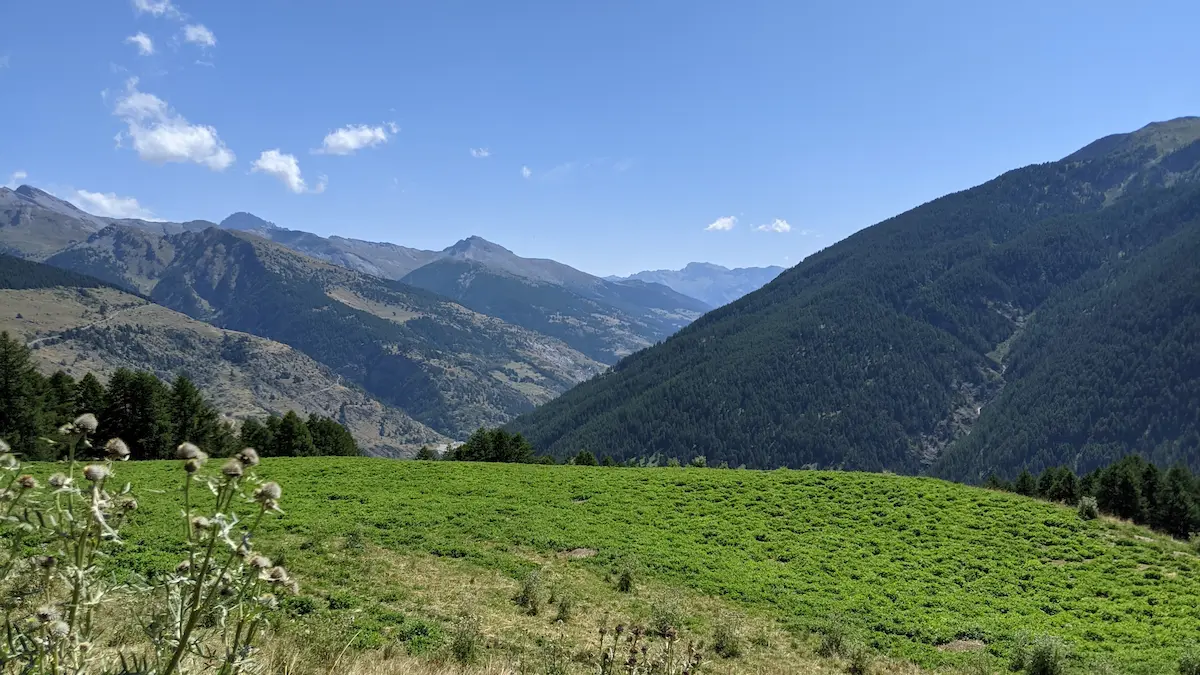
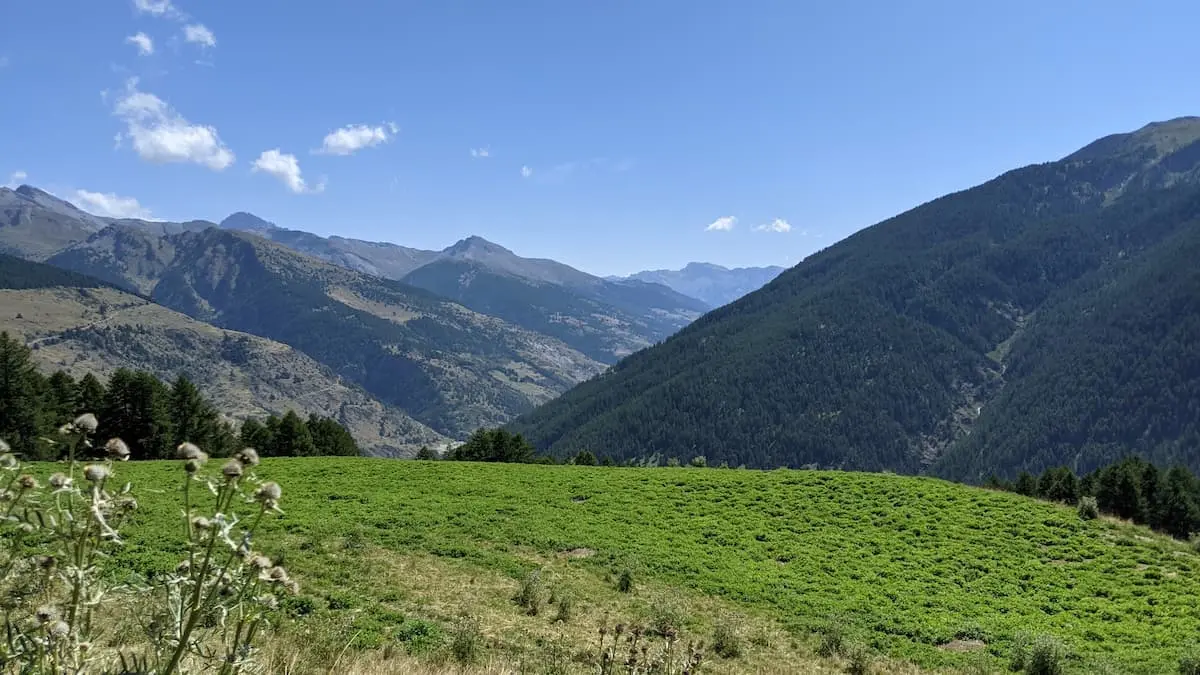
webp

diff --git a/css/netflix.css b/css/netflix.css
@@ -87,7 +87,7 @@ section {
 section.header {
   height: auto;
   --navbar-height: 68px;
-  background-image: url(../img/queyras_flip_1200.jpg);
+  background-image: url(../img/queyras_flip_1200.webp);
   background-size: cover;
   background-position: center center;
   padding: 0;
